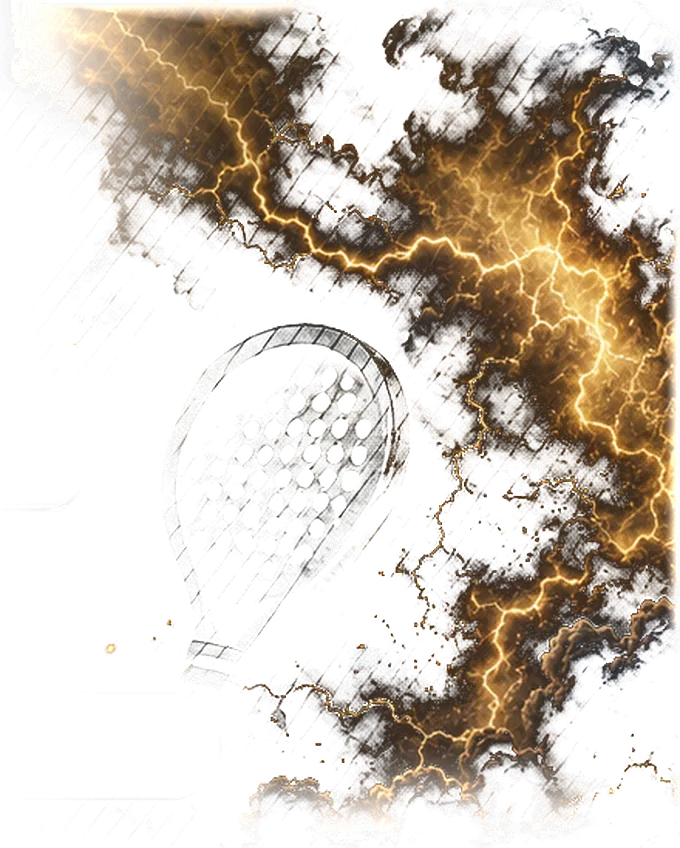
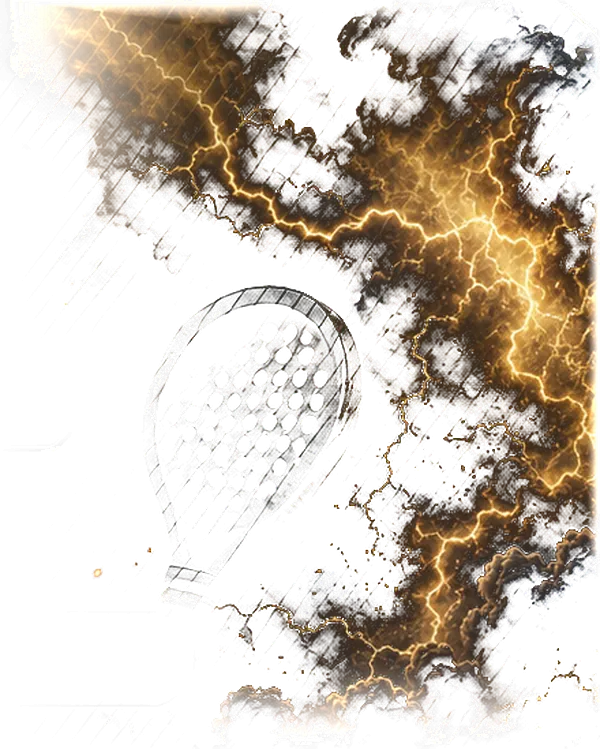
fix(assets): In-Form-onderdelen terug onder het bundelbudget (#834)
Op develop staat TOTAAL_MAX_MB op 10,5 — bij de Glazenwasser bewust
aangedraaid vanaf 11. De In-Form-dashboardkaart is gebouwd op een branch
waar 11 nog gold, dus beide takken waren op zichzelf groen en de merge-head
kwam op 10,554 uit. Precies het geval waarvoor je ná de merge hercheckt.

De grens rekt niet op; het artwork krimpt. De stormkolom gaat van 680 naar
600 px en van kwaliteit 78/80 naar 76/78, de vonkensleep van 460 naar
400 px: samen 317 → 242 kB, en dist/assets op 10,48 MB. De `clamp()`-
bovengrenzen in de CSS gaan mee, zodat het onderdeel niet wordt opgeschaald.

Daarmee is de huisregel "snij op twee keer de toonmaat, voor retina"
losgelaten: 600 px voor een kolom die op de breedste layout (940 px) 432 px
toont. Dat staat nu in assetBudget.test.ts, samen met de resterende marge
van 19 kB — wie hierna iets toevoegt hoort de grens te verhogen in plaats
van dit artwork verder te squeezen.

Claude-Session: https://claude.ai/code/session_017wgKK4eB5xtTuy1e3ZZ5nF

Changed region(s): [[0.66, 0.522, 0.69, 0.5834]]

diff --git a/src/lib/utils/assetBudget.test.ts b/src/lib/utils/assetBudget.test.ts
@@ -32,6 +32,14 @@ const ASSETS = pad("../../../dist/assets");
 // resolutie af, dan wordt het artwork zichtbaar zacht op een 450px-kaart. De
 // per-bestandsgrens hieronder blijft het echte vangnet voor ongecomprimeerde
 // bronbestanden.
+//
+// Stand na de In-Form-dashboardkaart (#834): 10,48 MB, dus nog 19 kB lucht. Die
+// twee onderdelen (242 kB) zijn al teruggesneden tot de `clamp()`-bovengrens van
+// hun eigen CSS — 600 px voor een kolom die op de breedste layout (940 px) 432 px
+// toont. De huisregel "snij op twee keer de toonmaat, voor retina" is daarmee
+// bewust losgelaten; verder squeezen kost zichtbare scherpte en levert kilobytes
+// op. Wie hierna iets toevoegt hoort dus déze grens te verhogen, niet dat
+// artwork nog kleiner te maken.
 const TOTAAL_MAX_MB = 10.5;
 // Bovengrens per bestand: de twee audiofragmenten (2,14 MB) zijn de zwaarste
 // die hier thuishoren.

diff --git a/src/features/dashboard/components/DashboardHero.css b/src/features/dashboard/components/DashboardHero.css
@@ -1754,7 +1754,7 @@
 .hero-if--storm {
   top: calc(-1 * var(--lijst-d));
   right: calc(-2cqw - var(--lijst-d));
-  width: clamp(240px, 46cqw, 680px);
+  width: clamp(240px, 46cqw, 600px);
   mask-image: linear-gradient(to left, #000 62%, transparent 98%);
   -webkit-mask-image: linear-gradient(to left, #000 62%, transparent 98%);
 }
@@ -1763,7 +1763,7 @@
 .hero-if--ember {
   left: calc(-1cqw - var(--lijst-d));
   bottom: calc(-0.5cqw - var(--lijst-d));
-  width: clamp(150px, 26cqw, 460px);
+  width: clamp(150px, 26cqw, 400px);
 }
 /* Onder ~560 px containerbreedte loopt de tekst over de volle breedte en is er
    geen rechterflank meer om de storm in te zetten: hij zakt naar een lage band

diff --git a/scripts/inform-dashboard-onderdelen.py b/scripts/inform-dashboard-onderdelen.py
@@ -59,12 +59,14 @@ KEY_LAAG = 17.0
 KEY_HOOG = 46.0
 
 # Bewust laag: het gewicht van dit onderdeel zit niet in de kleur maar in de
-# fijne wolkstructuur en het alfakanaal. Van 82/92 naar 78/80 scheelt 50 kB en is
-# op het kaartvlak niet te zien; resolutie is hier de echte knop (760 → 680 px
-# scheelt nog eens 50). De bundel staat met de Big Daddy-onderdelen al op
-# 10,3 MB van de 11 uit assetBudget.test.ts.
-KWALITEIT = 78
-ALFA_KWALITEIT = 80
+# fijne wolkstructuur en het alfakanaal. Van 82/92 naar 76/78 scheelt 60 kB en is
+# op het kaartvlak niet te zien; resolutie is hier de echte knop (760 → 600 px
+# scheelt nog eens 100). De doelbreedtes hieronder zijn dan ook de `clamp()`-
+# bovengrens uit DashboardHero.css zelf en niet het dubbele daarvan: bij een
+# bundelbudget van 10,5 MB (assetBudget.test.ts) is één master ongeveer wat er nog
+# in past, en dit zijn er twee.
+KWALITEIT = 76
+ALFA_KWALITEIT = 78
 
 
 def luminantie(rgb: np.ndarray) -> np.ndarray:
@@ -128,9 +130,10 @@ def veer(vorm: tuple[int, int], links=0, boven=0, rechts=0, onder=0) -> np.ndarr
 
 # Per onderdeel:
 #   snee     [x0, y0, x1, y1] in referentiepixels, binnen VLAK
-#   breedte  doelbreedte in pixels — twee keer de grootste maat waarop de CSS het
-#            onderdeel ooit toont (de `clamp()`-bovengrens), zodat het op een
-#            retina-scherm scherp blijft en geen byte zwaarder is dan dat
+#   breedte  doelbreedte in pixels — hier gelijk aan de `clamp()`-bovengrens uit
+#            DashboardHero.css, niet het dubbele daarvan zoals bij de Big Daddy.
+#            De bundel staat op 10,48 van de 10,5 MB (assetBudget.test.ts) en
+#            retina wint dat niet
 #   veer     uitdoving per rand, in sneepixels
 #   weg      rechthoeken met kaartinhoud die uit de snee moeten
 #   weg_vlak veelhoeken idem — de chamfer van de keyline is geen rechthoek
@@ -147,7 +150,7 @@ ONDERDELEN = [
         # wat verder naar links staat is kaartinhoud, en die uit een snee
         # wegpoetsen laat spookranden achter waar de wolk juist het dunst is.
         "snee": [1240, 90, 1698, 650],
-        "breedte": 680,
+        "breedte": 600,
         # Links diep uitgeveerd: dáár begint de tekstkolom, en wit op een
         # bliksemkern haalt 3,1:1. De veer is de harde grens uit §5, niet smaak.
         "veer": {"links": 170, "boven": 22, "rechts": 12, "onder": 80},
@@ -171,7 +174,7 @@ ONDERDELEN = [
         # (eindigt op y 745) en de chamfer van de linkeronderhoek (begint rond
         # x 105 op y 805) — vandaar dat hij smal is en niet tot in de hoek loopt.
         "snee": [78, 742, 300, 806],
-        "breedte": 460,
+        "breedte": 400,
         "veer": {"links": 16, "boven": 16, "rechts": 90, "onder": 14},
     },
 ]

diff --git a/docs/dashboard/in-form-dashboardkaart.md b/docs/dashboard/in-form-dashboardkaart.md
@@ -245,8 +245,11 @@ watermerk) bleef daarmee ongebruikt.
 
 - `scripts/inform-dashboard-onderdelen.py` snijdt twee onderdelen uit
   `in_form_dashboard.png`: de stormkolom van de rechterflank en de vonkensleep in
-  de linkeronderhoek. Samen 317 kB; `dist/assets` komt daarmee op 10,58 van de
-  11 MB uit `assetBudget.test.ts`;
+  de linkeronderhoek. Samen 242 kB; `dist/assets` komt daarmee op 10,48 van de
+  10,5 MB uit `assetBudget.test.ts`. Die grens werd bij de Glazenwasser bewust
+  aangedraaid van 11 naar 10,5, dus de doelbreedtes van het snijscript zijn de
+  `clamp()`-bovengrens van de CSS zélf en niet het dubbele daarvan — retina wint
+  het hier niet van de bundel;
 - `InformDecor.tsx` rendert ze als losse `<img>`'s met `decoding="sync"`;
   `DashboardHero.css` verankert ze aan één rand en geeft de stormkolom een tweede
   uitdoving links — die hangt aan de kaartbreedte in plaats van aan het bestand
